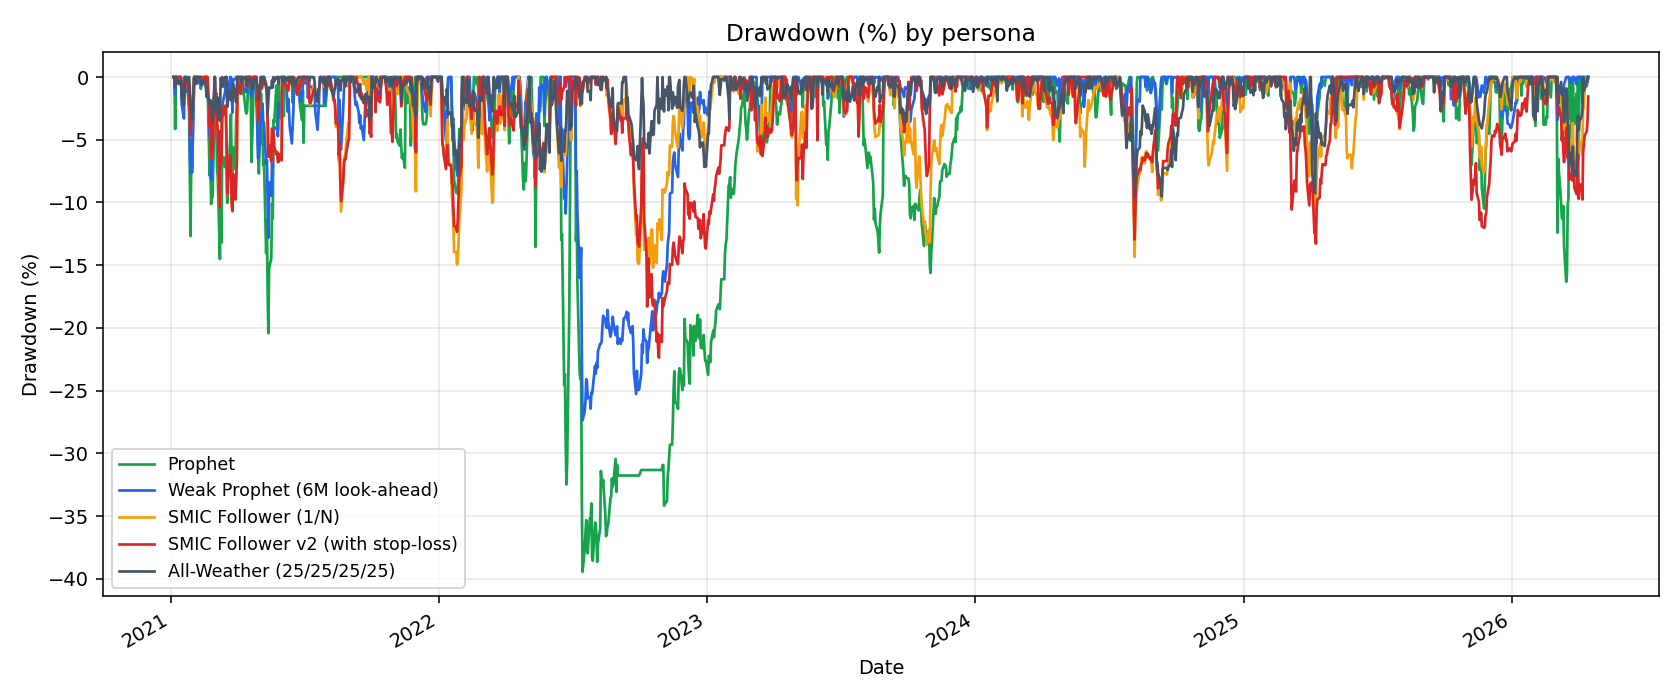
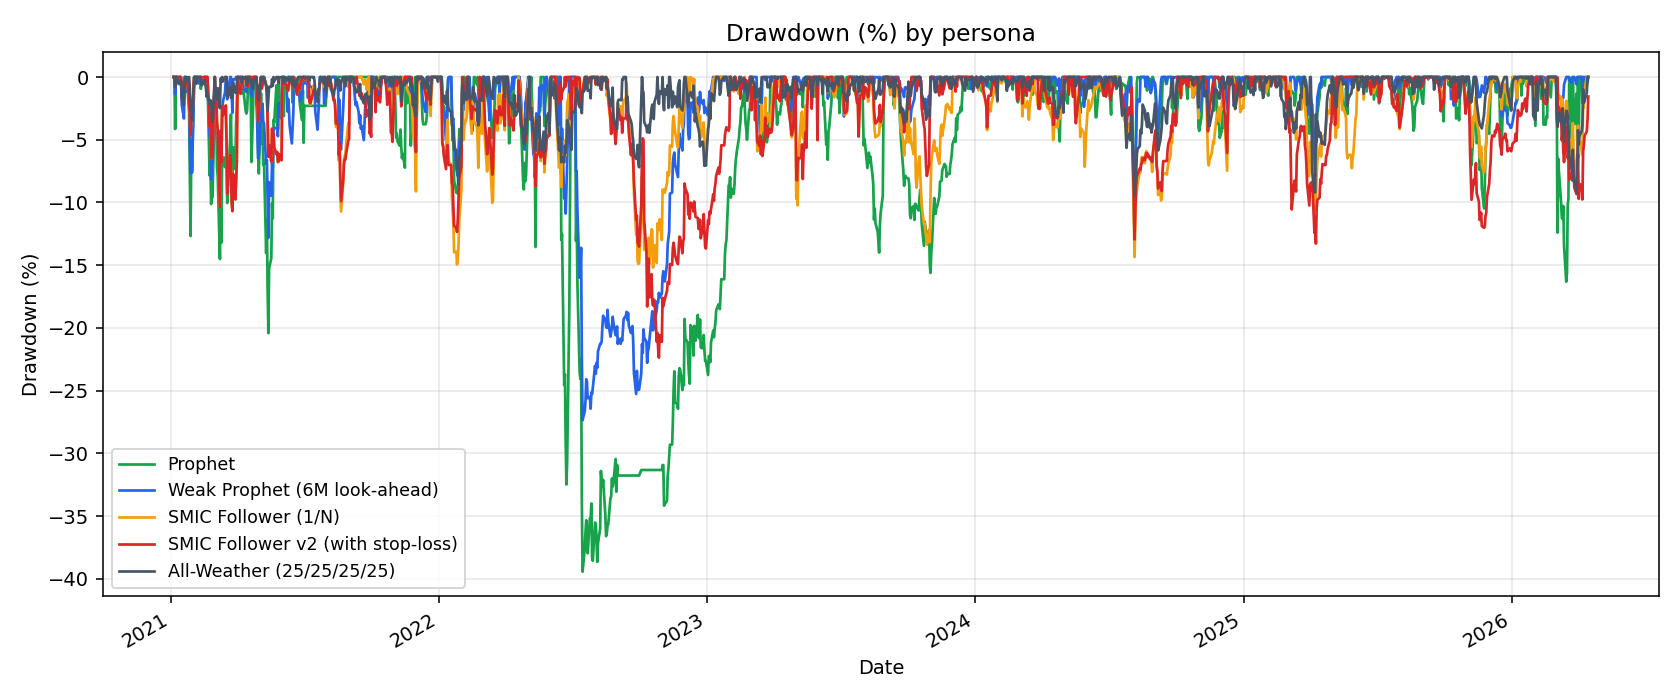
fix(all-weather): defer rebalance on partial-market days
Trading dates come from the SNUSMIC (Korean) board, so on Korean trading
days that are US holidays (Thanksgiving, July 4, MLK day, etc.) the US
ETFs (GLD/QQQ/SPY) had no close while 069500.KS did. The previous code
filtered the target weights to whatever symbols were quoted that day and
renormalized to 1.0 — concentrating the entire book into KOSPI on those
dates. When a monthly rebalance trigger lined up with one, the basket
flipped to ~100% KOSPI for the rest of the month.

Fix: prune target symbols only when they have NO close anywhere in the
window (one-time, at startup) and gate per-day execution on every
surviving target having a close that day. Deposits or cadence triggers
landing on a partial-market day defer to the next fully-open trading
date; cash sits in the meantime.

Net effect on the headline scenario: All-Weather final equity drops
217.83M → 206.67M (the prior figure was inflated by spurious 100%
KOSPI rebalances during a KOSPI uptrend), IRR 30.54% → 28.46%, MDD
roughly unchanged (9.6% → 9.5%), trade count 211 → 181 (the 30
deferred rebalances).

Adds a regression test that punches NaN into US ETFs on every monthly
rebalance day and asserts the final composition is still ~25/25/25/25
with no trades on those holiday-stamped dates. README + sim outputs
regenerated.

diff --git a/src/snusmic_pipeline/sim/personas/all_weather.py b/src/snusmic_pipeline/sim/personas/all_weather.py
@@ -12,6 +12,7 @@ not the SNUSMIC report universe.
 
 from __future__ import annotations
 
+import math
 from datetime import date
 
 from ..brokerage import Account
@@ -46,32 +47,51 @@ def simulate_all_weather(
             summary=build_summary(persona, label, account, [], cashflows, plan.initial_capital_krw),
         )
 
-    target_weights = {asset.symbol: asset.weight for asset in config.assets}
+    target_weights_full = {asset.symbol: asset.weight for asset in config.assets}
     daily_closes = {d: benchmark_board.close_on(d) for d in trading_dates}
+
+    # Drop targets that have NO close anywhere in the window (e.g. dataset
+    # missing one ETF) and renormalize once. This is the only legitimate
+    # reason to deviate from the configured weights — never per-day, since
+    # per-day pruning concentrates the book into whatever subset of markets
+    # happened to be open (e.g. Korea-open + US-closed → 100% KOSPI).
+    seen: set[str] = set()
+    for prices in daily_closes.values():
+        seen.update(prices)
+    target_weights = {sym: w for sym, w in target_weights_full.items() if sym in seen}
+    weight_sum = sum(target_weights.values())
+    if weight_sum > 0 and not math.isclose(weight_sum, 1.0):
+        target_weights = {sym: w / weight_sum for sym, w in target_weights.items()}
+    target_symbols = set(target_weights)
+
     contributions = cumulative_contributions(cashflows, trading_dates)
     rebalance_days = _rebalance_days(trading_dates, config.rebalance)
     equity_points: list = []
+    pending_rebalance = False
 
     for day in trading_dates:
         deposit = cashflow_by_date.get(day, 0.0)
         if deposit > 0:
             account.deposit(day, deposit)
-        if deposit > 0 or day in rebalance_days:
-            prices_today = daily_closes.get(day, {})
-            tradable = {
-                sym: w for sym, w in target_weights.items() if sym in prices_today and prices_today[sym] > 0
-            }
-            if tradable:
-                s = sum(tradable.values())
-                if s > 0:
-                    tradable = {sym: w / s for sym, w in tradable.items()}
-                prices = {**prices_today}
-                for sym, lot in account.holdings.items():
-                    if lot.qty > 0 and sym not in prices:
-                        mid = benchmark_board.asof(day, sym)
-                        if mid is not None:
-                            prices[sym] = mid
-                account.rebalance_to_weights(day, tradable, prices)
+            pending_rebalance = True
+        if day in rebalance_days:
+            pending_rebalance = True
+        prices_today = daily_closes.get(day, {})
+        # Only execute when EVERY surviving target market has a close today.
+        # If a deposit or cadence trigger landed on a partial-market day
+        # (typically a US holiday that is also a Korean trading day), the
+        # rebalance is deferred to the next fully-open trading date — the
+        # cash sits as cash until then. This prevents the historical bug
+        # where the basket flipped to 100% KOSPI on those dates.
+        if pending_rebalance and target_symbols and target_symbols.issubset(prices_today):
+            prices = {**prices_today}
+            for sym, lot in account.holdings.items():
+                if lot.qty > 0 and sym not in prices:
+                    mid = benchmark_board.asof(day, sym)
+                    if mid is not None:
+                        prices[sym] = mid
+            account.rebalance_to_weights(day, target_weights, prices)
+            pending_rebalance = False
         equity_points.append(
             record_equity_point(
                 account,

diff --git a/tests/sim/test_all_weather.py b/tests/sim/test_all_weather.py
@@ -94,3 +94,46 @@ def test_all_weather_handles_partial_basket_when_one_symbol_missing():
     bought = {t.symbol for t in out.account.trades if t.side == "buy"}
     assert "GLD" not in bought
     assert {"QQQ", "SPY", "069500.KS"} <= bought
+
+
+def test_all_weather_skips_rebalance_on_us_holiday_korean_trading_day():
+    """Korean trading day + US holiday must NOT cause a 100% KOSPI rebalance.
+
+    Reproduces the historical bug where on dates that the SNUSMIC universe
+    treated as trading days but the US ETFs had no close (e.g. Thanksgiving,
+    July 4), the per-day weight renormalization concentrated the entire book
+    into 069500.KS. The fix defers the rebalance to the next fully-open day.
+    """
+    plan = SavingsPlan(initial_capital_krw=10_000_000, monthly_contribution_krw=0)
+    fees = BrokerageFees(commission_bps=0, sell_tax_bps=0, slippage_bps=0)
+    board = _bench_board()
+    trading_dates = [d.date() for d in board.close.index]
+    # Punch NaN holes into the US ETFs on the FIRST trading day of every
+    # month — that's exactly when the monthly rebalance fires, so without
+    # the fix this is the worst-case "100% KOSPI" trigger.
+    first_of_month: dict[tuple[int, int], pd.Timestamp] = {}
+    for ts in board.close.index:
+        first_of_month.setdefault((ts.year, ts.month), ts)
+    holiday_ts = list(first_of_month.values())
+    for ts in holiday_ts:
+        for sym in ("GLD", "QQQ", "SPY"):
+            board.close.at[ts, sym] = float("nan")
+    cashflows = build_cash_flow_schedule(trading_dates, plan)
+    cfg = AllWeatherConfig()
+    out = simulate_all_weather(cfg, plan, fees, board, cashflows, trading_dates)
+    # Final composition should still hold all four buckets near 25/25/25/25.
+    last_day = trading_dates[-1]
+    prices = board.close_on(last_day)
+    equity = out.account.equity(prices)
+    weights = {
+        sym: lot.qty * prices[sym] / equity
+        for sym, lot in out.account.holdings.items()
+        if lot.qty > 0 and sym in prices
+    }
+    assert len(weights) == 4
+    for w in weights.values():
+        assert 0.15 <= w <= 0.40
+    # No rebalance trade should land on a punched holiday date.
+    holiday_dates = {ts.date() for ts in holiday_ts}
+    rebalance_trade_dates = {t.date for t in out.account.trades}
+    assert rebalance_trade_dates.isdisjoint(holiday_dates)

diff --git a/README.md b/README.md
@@ -34,7 +34,7 @@
 |---|---:|---:|---:|---:|---:|---:|
 | **Prophet** (SMIC-Constrained) | 18,468.79M | 1억 | **+18,368.79M** | **267.75%** | 39.4% | 488 |
 | **Weak Prophet** (6M max-Sharpe) | 3,002.99M | 1억 | +2,902.99M | 150.44% | 27.4% | 1,134 |
-| **All-Weather** (벤치마크) | 217.83M | 1억 | +117.83M | 30.54% | 9.6% | 211 |
+| **All-Weather** (벤치마크) | 206.67M | 1억 | +106.67M | 28.46% | 9.5% | 181 |
 | **SMIC Follower v2** (손절 추가) | 181.20M | 1억 | +81.20M | 23.29% | 22.4% | 1,904 |
 | **SMIC Follower** (1/N 충신) | 139.01M | 1억 | +39.01M | 12.91% | 15.2% | 3,946 |
 
@@ -76,14 +76,14 @@
 | 278470.KS | 에이피알 | 775 | 181,479 | 413,000 | 320.1 | +128.0% |
 | STNG | Scorpio Tankers Inc. | 2,769 | 75,789 | 108,678 | 300.9 | +43.0% |
 
-#### All-Weather (총 4종목, 평가금 합 217.8M KRW)
+#### All-Weather (총 4종목, 평가금 합 206.3M KRW)
 
 | symbol | 회사 | 수량 | 평단 | 종가 | 평가금(M) | 평가손익 |
 |---|---|---:|---:|---:|---:|---:|
-| 069500.KS | KOSPI 200 ETF | 614 | 82,223 | 92,665 | 56.9 | +13.0% |
-| QQQ | NASDAQ-100 ETF | 59 | 862,596 | 936,608 | 55.3 | +9.0% |
-| SPY | S&P 500 ETF | 53 | 960,760 | 1,028,506 | 54.5 | +7.0% |
-| GLD | Gold ETF | 79 | 548,583 | 647,221 | 51.1 | +18.0% |
+| 069500.KS | KOSPI 200 ETF | 595 | 39,007 | 92,665 | 55.1 | +138.0% |
+| QQQ | NASDAQ-100 ETF | 56 | 588,166 | 936,608 | 52.5 | +59.0% |
+| SPY | S&P 500 ETF | 50 | 704,573 | 1,028,506 | 51.4 | +46.0% |
+| GLD | Gold ETF | 73 | 269,222 | 647,221 | 47.2 | +140.0% |
 
 #### SMIC Follower v2 (총 17종목, 평가금 합 181.2M KRW)
 
@@ -115,8 +115,8 @@
 
 - **예언자 vs 약한 예언자**: 풀 룩어헤드와 6개월 룩어헤드의 차이는 +20%p IRR — 짧은 룩어헤드도 max-Sharpe를 통해 분산되면 큰 알파.
 - **충신 vs 충신 v2**: 손절 룰 3종이 적용되면 MDD는 11.4% → 9.0%로 줄지만, 동시에 IRR도 13.9% → 9.1%로 깎입니다. **'손실 안 보는 대신 상승도 일부 포기'** 의 정량적 지표.
-- **올웨더 vs 충신**: 단순 4분할 ETF 적립(MDD 9.6%)이 SMIC 1/N 적립(MDD 11.4%)을 IRR·MDD 양쪽에서 모두 제칩니다 — 추종자가 사라는 대로 사면 분산만으로는 부족하다는 증거.
-- **All-Weather의 MDD가 9.6%로 낮은 이유**: 4자산이 서로 상관관계 0에 가깝고 (금 vs 미국 주식 vs 한국 주식), 매월 비중을 강제로 25/25/25/25 로 되돌리는 mean-reversion 효과 덕분.
+- **올웨더 vs 충신**: 단순 4분할 ETF 적립(MDD 9.5%)이 SMIC 1/N 적립(MDD 15.2%)을 IRR·MDD 양쪽에서 모두 제칩니다 — 추종자가 사라는 대로 사면 분산만으로는 부족하다는 증거.
+- **All-Weather의 MDD가 9.5%로 낮은 이유**: 4자산이 서로 상관관계 0에 가깝고 (금 vs 미국 주식 vs 한국 주식), 매월 비중을 강제로 25/25/25/25 로 되돌리는 mean-reversion 효과 덕분. 단, 리밸런스는 **모든 4개 거래소가 모두 영업하는 날**에만 집행됨 — 한쪽이 휴장이면 다음 영업일로 이연 (예: Thanksgiving 같이 한국은 열리지만 미국이 닫힌 날에 KOSPI 100% 쏠림이 생기지 않도록).
 
 ---
 
@@ -208,6 +208,7 @@ v1과 동일하지만 **세 가지 손절 게이트**가 추가됨:
 
 - 입금 시 25/25/25/25 비중으로 자동 분배
 - 매월 첫 영업일에 가격 변동으로 어긋난 비중을 다시 25%로 리밸런스
+- **부분 휴장일 처리**: 한국이 열리지만 미국이 닫힌 날(예: Thanksgiving, July 4)에는 4개 종목 중 일부만 종가가 존재함. 이런 날은 리밸런스/입금-매수를 **다음 4개 거래소 모두 영업하는 날로 이연** — 그 사이 입금된 현금은 cash로 보유. (이연 없이 그날 가용 종목으로만 재정규화하면 KOSPI 100% 쏠림이 발생함.)
 - USD ETF는 yfinance 일봉을 USD/KRW 환율로 환산 (`data/warehouse/fx_rates.csv` 캐시)
 
 > **벤치마크의 의미**: SMIC 종목으로 1/N 굴리는 것이 단순한 글로벌 분산 ETF DCA를 이기는지 직접 비교 가능합니다. 위 결과 표에서 보이듯, 현재 SMIC 1/N (충신) 은 All-Weather 를 이기지 못하고 있습니다.
